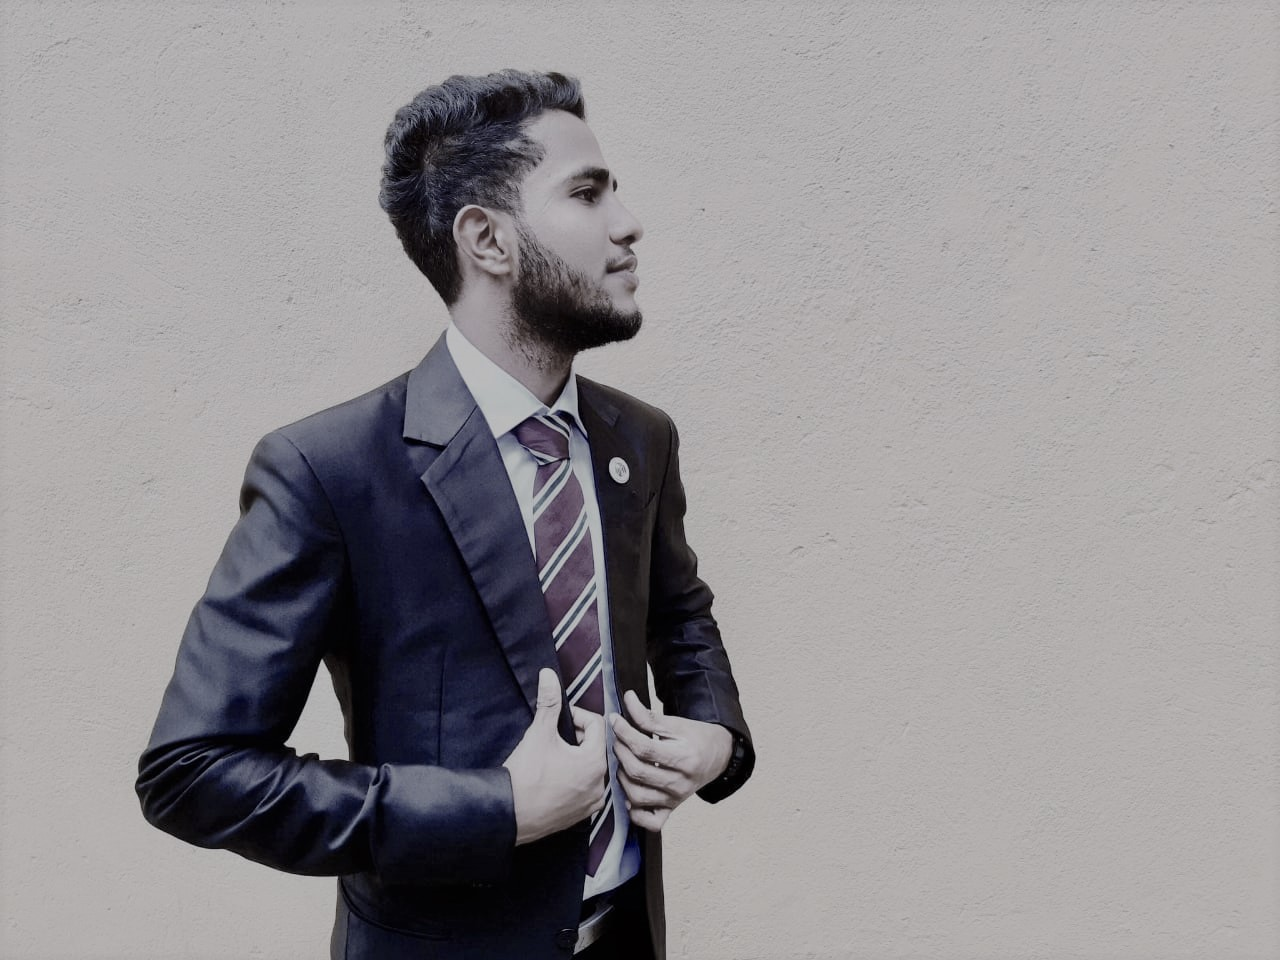
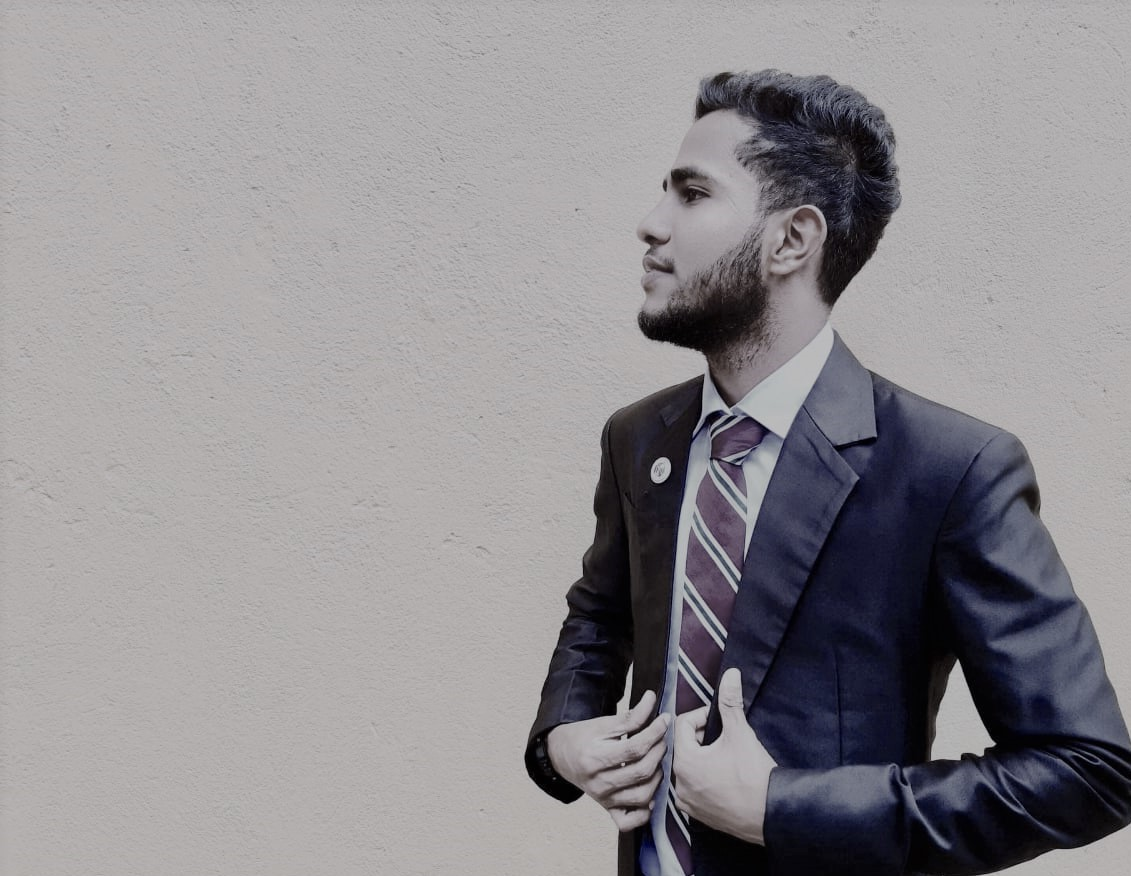
adding new bp image

diff --git a/portfolio/premier-league.html b/portfolio/premier-league.html
@@ -1,0 +1,116 @@
+<!DOCTYPE html>
+<html lang="en">
+
+<head>
+  <meta charset="utf-8">
+  <meta content="width=device-width, initial-scale=1.0" name="viewport">
+
+  <title>Portfolio Details - Personal Bootstrap Template</title>
+  <meta content="" name="description">
+  <meta content="" name="keywords">
+
+  <!-- Favicons -->
+  <link href="../assets/img/favicon.png" rel="icon">
+  <link href="../assets/img/apple-touch-icon.png" rel="apple-touch-icon">
+
+  <!-- Google Fonts -->
+  <link href="https://fonts.googleapis.com/css?family=Open+Sans:300,300i,400,400i,600,600i,700,700i|Raleway:300,300i,400,400i,500,500i,600,600i,700,700i|Poppins:300,300i,400,400i,500,500i,600,600i,700,700i" rel="stylesheet">
+
+  <!-- Vendor CSS Files -->
+  <link href="../assets/vendor/bootstrap/css/bootstrap.min.css" rel="stylesheet">
+  <link href="../assets/vendor/bootstrap-icons/bootstrap-icons.css" rel="stylesheet">
+  <link href="../assets/vendor/boxicons/css/boxicons.min.css" rel="stylesheet">
+  <link href="../assets/vendor/glightbox/css/glightbox.min.css" rel="stylesheet">
+  <link href="../assets/vendor/remixicon/remixicon.css" rel="stylesheet">
+  <link href="../assets/vendor/swiper/swiper-bundle.min.css" rel="stylesheet">
+
+  <!-- Template Main CSS File -->
+  <link href="../assets/css/style.css" rel="stylesheet">
+
+  <!-- =======================================================
+  * Template Name: Personal - v4.2.0
+  * Template URL: https://bootstrapmade.com/personal-free-resume-bootstrap-template/
+  * Author: BootstrapMade.com
+  * License: https://bootstrapmade.com/license/
+  ======================================================== -->
+</head>
+
+<body>
+
+  <main id="main">
+
+    <!-- ======= Portfolio Details ======= -->
+    <div id="portfolio-details" class="portfolio-details">
+      <div class="container">
+
+        <div class="row">
+
+          <div class="col-lg-8">
+            <h2 class="portfolio-title">Premier league</h2>
+
+            <div class="portfolio-details-slider swiper-container">
+              <div class="swiper-wrapper align-items-center">
+
+                <div class="swiper-slide">
+                  <img src="../assets/img/portfolio/footbase.gif" alt="">
+                </div>
+
+                <!-- <div class="swiper-slide">
+                  <img src="https://livingbetweenworlds.files.wordpress.com/2014/06/fifa-world-cup-all-star-wallpaper.jpg" alt="">
+                </div> -->
+
+                <!-- <div class="swiper-slide">
+                  <img src="https://encrypted-tbn0.gstatic.com/images?q=tbn:ANd9GcRsaF4u467q273A4kQKuuo6MzEUUm-xGm0cEA&usqp=CAU" alt="">
+                </div> -->
+
+              </div>
+              <div class="swiper-pagination"></div>
+            </div>
+
+          </div>
+
+          <div class="col-lg-4 portfolio-info">
+            <h3>Project information</h3>
+            <ul>
+              <li><strong>Category</strong>: Web Application</li>
+              <li><strong>Languages Used</strong>: HTML, CSS, JS</li>
+              <li><strong>Project Code</strong>: <a href="https://bit.ly/3uHEuDs">Click here</a></li>
+            </ul>
+
+            <p>
+                This is a premier league management system which was created using Java and AngularJS that provides various functions to create and manage data of premier league matches.
+                Basically this system consists of two parts such as a command line interface (CLI) part and a graphical user interface part.
+                So the CLI part was developed completely using Java and the GUI part was developed using AngularJS with a backend of Java playframework using REST API.
+            </p>
+          </div>
+
+        </div>
+
+      </div>
+    </div><!-- End Portfolio Details -->
+
+  </main><!-- End #main -->
+
+  <div class="credits">
+    <!-- All the links in the footer should remain intact. -->
+    <!-- You can delete the links only if you purchased the pro version. -->
+    <!-- Licensing information: https://bootstrapmade.com/license/ -->
+    <!-- Purchase the pro version with working PHP/AJAX contact form: https://bootstrapmade.com/personal-free-resume-bootstrap-template/ -->
+    Designed by <a href="https://bootstrapmade.com/">BootstrapMade</a>
+  </div>
+
+  <!-- Vendor JS Files -->
+  <script src="../assets/vendor/bootstrap/js/bootstrap.bundle.min.js"></script>
+  <script src="../assets/vendor/glightbox/js/glightbox.min.js"></script>
+  <script src="../assets/vendor/isotope-layout/isotope.pkgd.min.js"></script>
+  <script src="../assets/vendor/php-email-form/validate.js"></script>
+  <script src="../assets/vendor/purecounter/purecounter.js"></script>
+  <script src="../assets/vendor/swiper/swiper-bundle.min.js"></script>
+  <script src="../assets/vendor/waypoints/noframework.waypoints.js"></script>
+
+  <!-- Template Main JS File -->
+  <script src="../assets/js/main.js"></script>
+
+</body>
+
+</html>

diff --git a/index.html b/index.html
@@ -473,7 +473,7 @@
           </div>
         </div>
 
-        <div class="col-lg-4 col-md-6 portfolio-item filter-card">
+        <!-- <div class="col-lg-4 col-md-6 portfolio-item filter-card">
           <div class="portfolio-wrap">
             <img src="assets/img/portfolio/portfolio-4.jpg" class="img-fluid" alt="">
             <div class="portfolio-info">
@@ -485,17 +485,17 @@
               </div>
             </div>
           </div>
-        </div>
+        </div> -->
 
         <div class="col-lg-4 col-md-6 portfolio-item filter-web">
           <div class="portfolio-wrap">
-            <img src="assets/img/portfolio/portfolio-5.jpg" class="img-fluid" alt="">
+            <img src="assets/img/portfolio/premier league.gif" class="img-fluid" alt="">
             <div class="portfolio-info">
-              <h4>Web 2</h4>
-              <p>Web</p>
+              <h4>Premier League</h4>
+              <p>Web Application</p>
               <div class="portfolio-links">
-                <a href="assets/img/portfolio/portfolio-5.jpg" data-gallery="portfolioGallery" class="portfolio-lightbox" title="Web 2"><i class="bx bx-plus"></i></a>
-                <a href="portfolio-details.html" data-gallery="portfolioDetailsGallery" data-glightbox="type: external" class="portfolio-details-lightbox" title="Portfolio Details"><i class="bx bx-link"></i></a>
+                <a href="assets/img/portfolio/Premier_League_Logo.svg.png" data-gallery="portfolioGallery" class="portfolio-lightbox" title="Premier League"><i class="bx bx-plus"></i></a>
+                <a href="portfolio/premier-league.html" data-gallery="portfolioDetailsGallery" data-glightbox="type: external" class="portfolio-details-lightbox" title="Portfolio Details"><i class="bx bx-link"></i></a>
               </div>
             </div>
           </div>
@@ -515,7 +515,7 @@
           </div>
         </div>
 
-        <div class="col-lg-4 col-md-6 portfolio-item filter-card">
+        <!-- <div class="col-lg-4 col-md-6 portfolio-item filter-card">
           <div class="portfolio-wrap">
             <img src="assets/img/portfolio/portfolio-7.jpg" class="img-fluid" alt="">
             <div class="portfolio-info">
@@ -527,9 +527,9 @@
               </div>
             </div>
           </div>
-        </div>
+        </div> -->
 
-        <div class="col-lg-4 col-md-6 portfolio-item filter-card">
+        <!-- <div class="col-lg-4 col-md-6 portfolio-item filter-card">
           <div class="portfolio-wrap">
             <img src="assets/img/portfolio/portfolio-8.jpg" class="img-fluid" alt="">
             <div class="portfolio-info">
@@ -541,7 +541,7 @@
               </div>
             </div>
           </div>
-        </div>
+        </div> -->
 
         <div class="col-lg-4 col-md-6 portfolio-item filter-web">
           <div class="portfolio-wrap">

diff --git a/assets/css/style.css b/assets/css/style.css
@@ -19,7 +19,7 @@ body {
 body::before {
   content: "";
   position: fixed;
-  background: #040404 url("../img/bg1.jpeg") top right no-repeat;
+  background: #040404 url("../img/pro.jpeg") top right no-repeat;
   background-size: cover;
   left: 0;
   right: 0;
@@ -29,9 +29,11 @@ body::before {
   
 }
 
-@media (min-width: 1024px) {
-  body::before {
-    background-attachment: fixed;
+@media (max-width: 748px) {
+  body ::before{
+    
+    background: none;
+   
   }
 }
 
